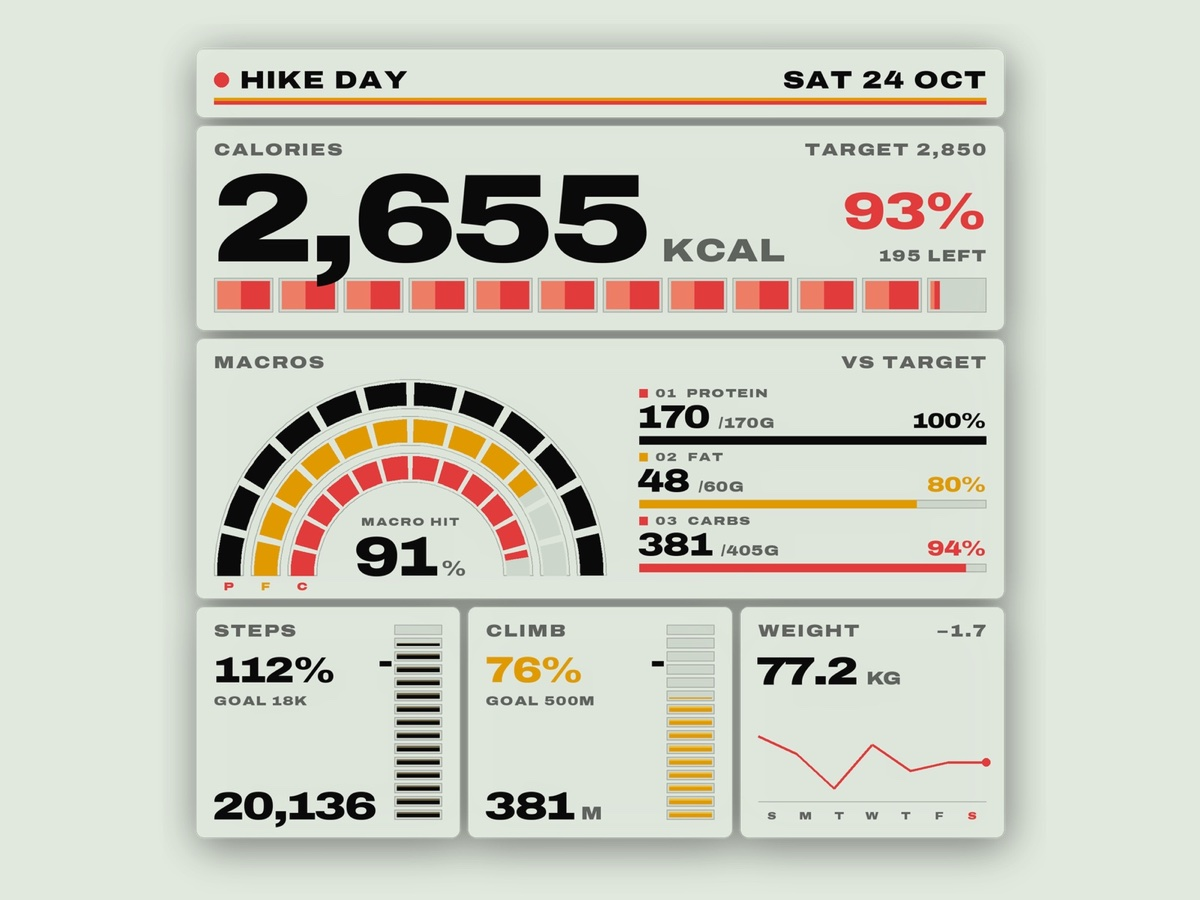
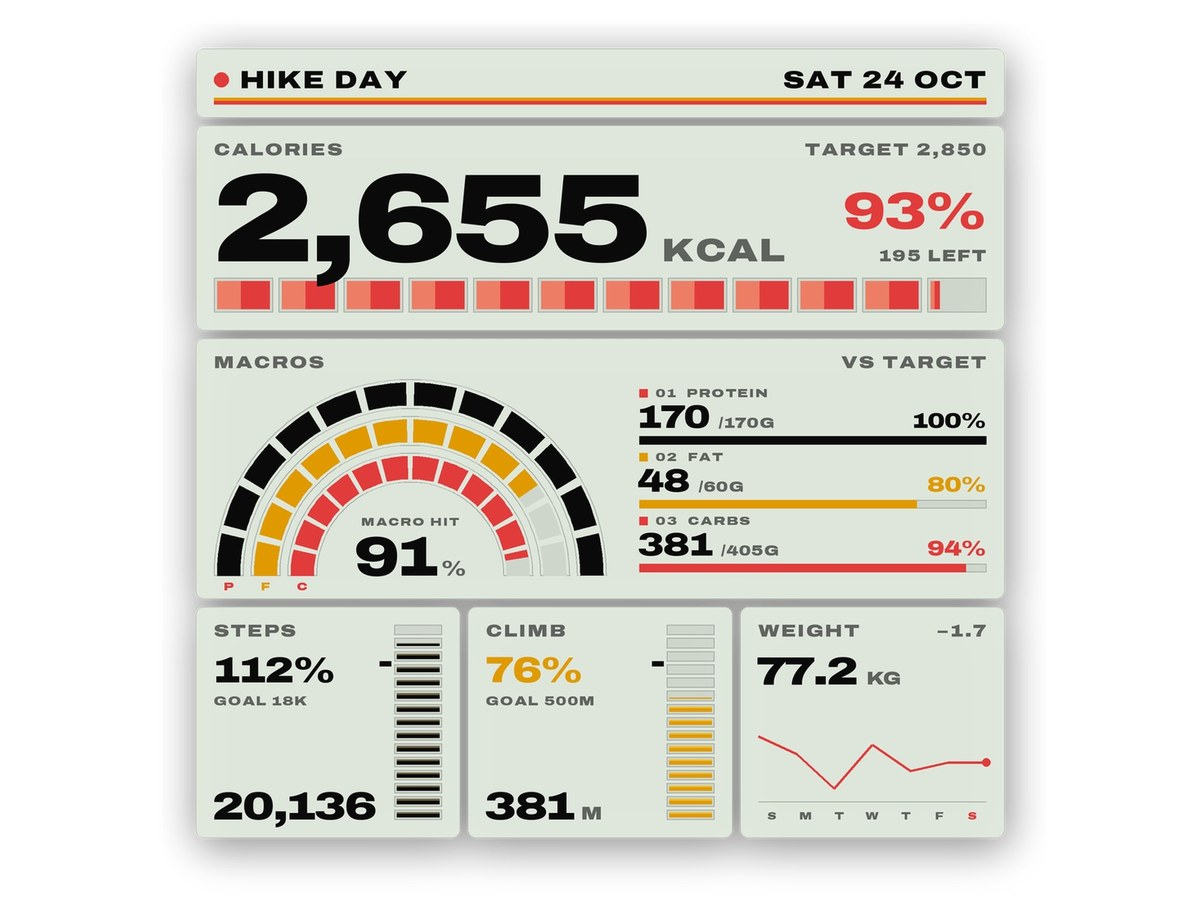
Macro Coach card: new thumbnail

diff --git a/index.html b/index.html
@@ -1362,7 +1362,7 @@ footer .fr { font-size: 9px; letter-spacing: .2em; text-transform: uppercase; co
       </div>
     </a>
     <a href="case-study-macro-coach.html" class="case-study-card">
-      <img src="image/cs-macro-thumb.jpg" alt="Macro Coach case study">
+      <img src="image/cs-macro-thumb.jpg?v=2" alt="Macro Coach case study">
       <div class="case-study-caption">
         <span class="case-study-label">Health Automation</span>
         <h3>Macro Coach</h3>
